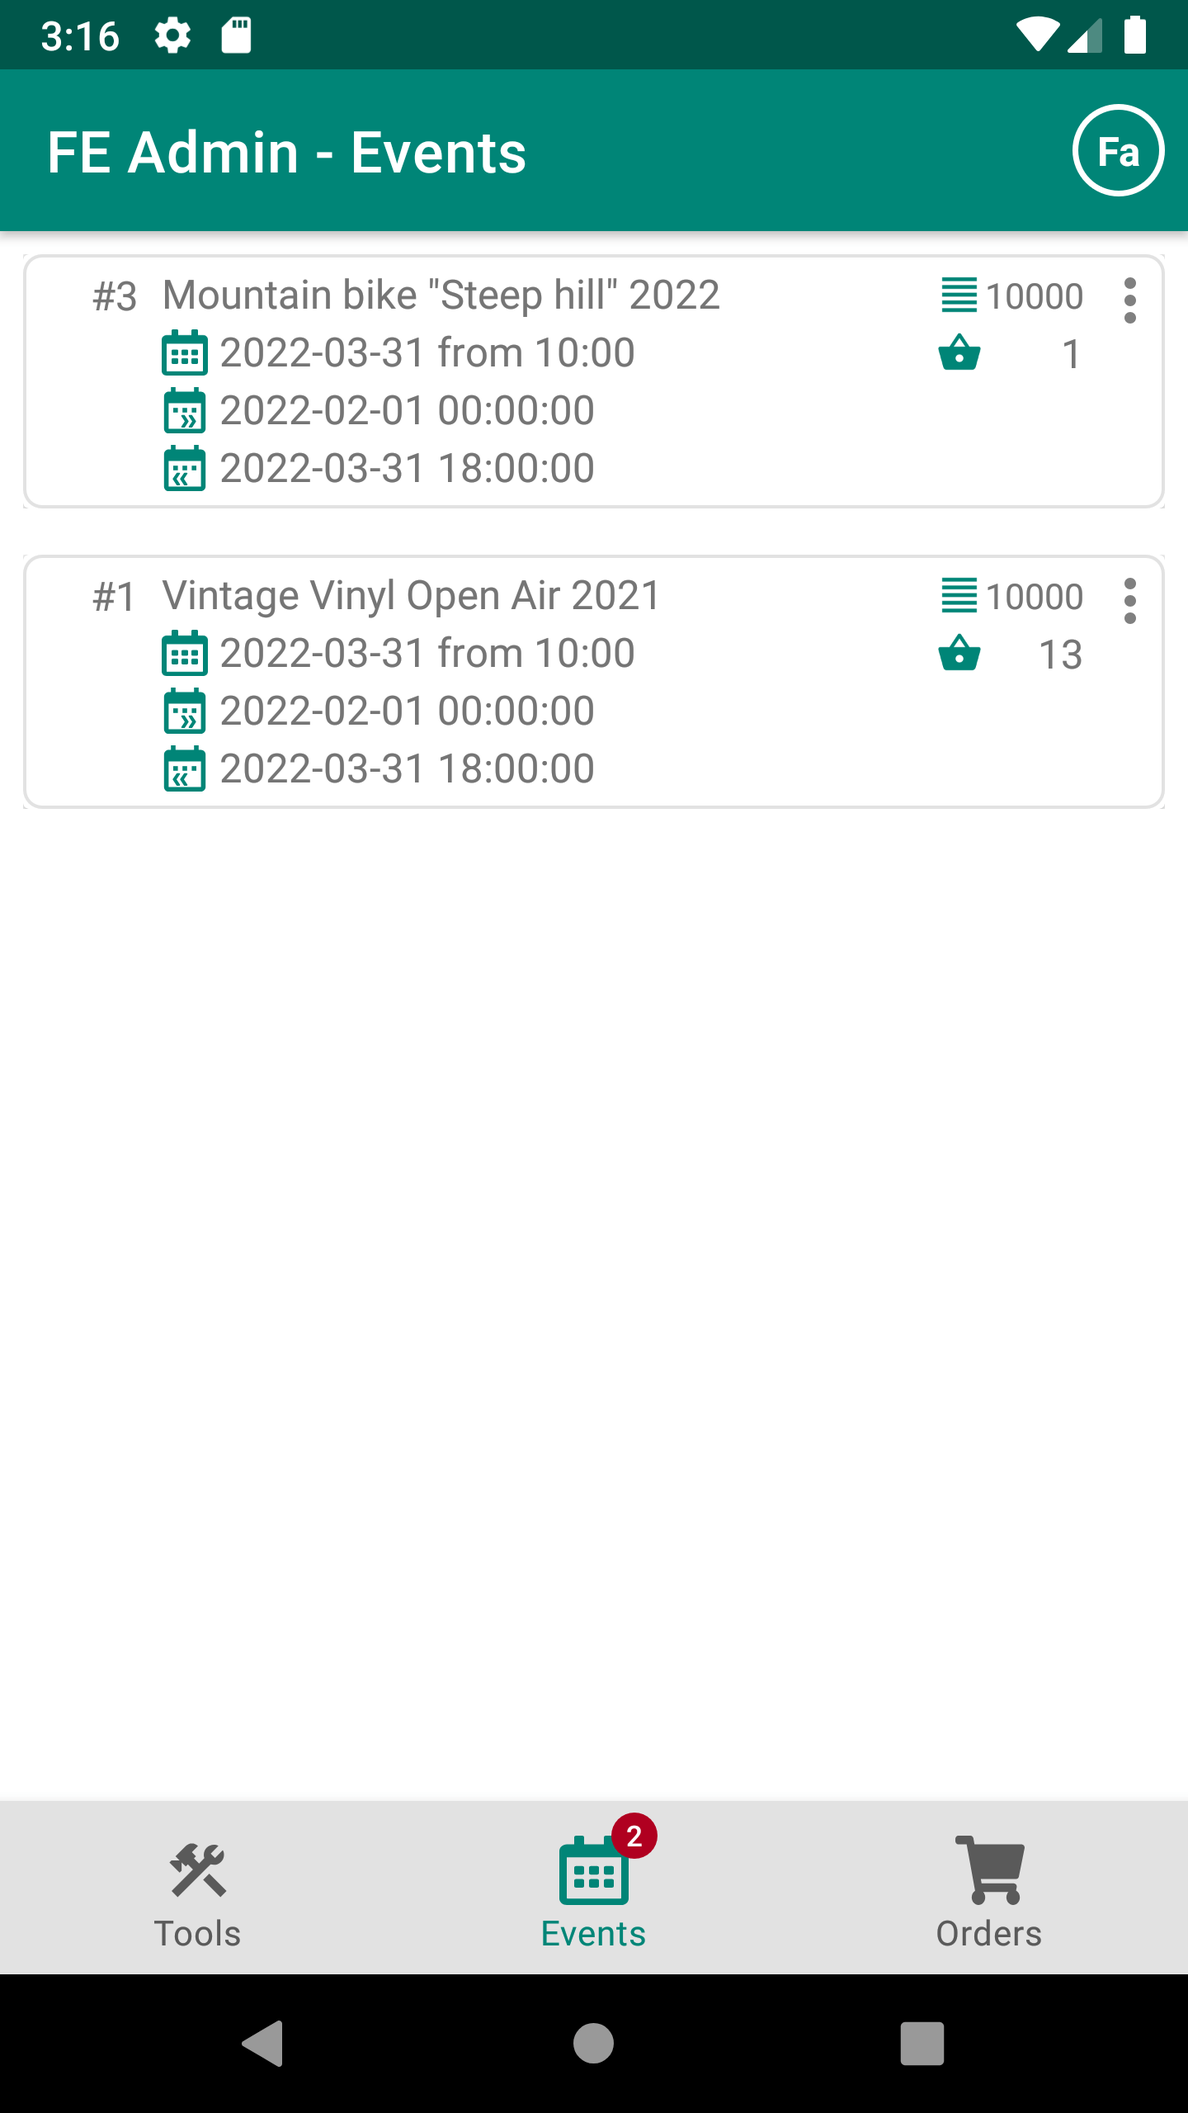
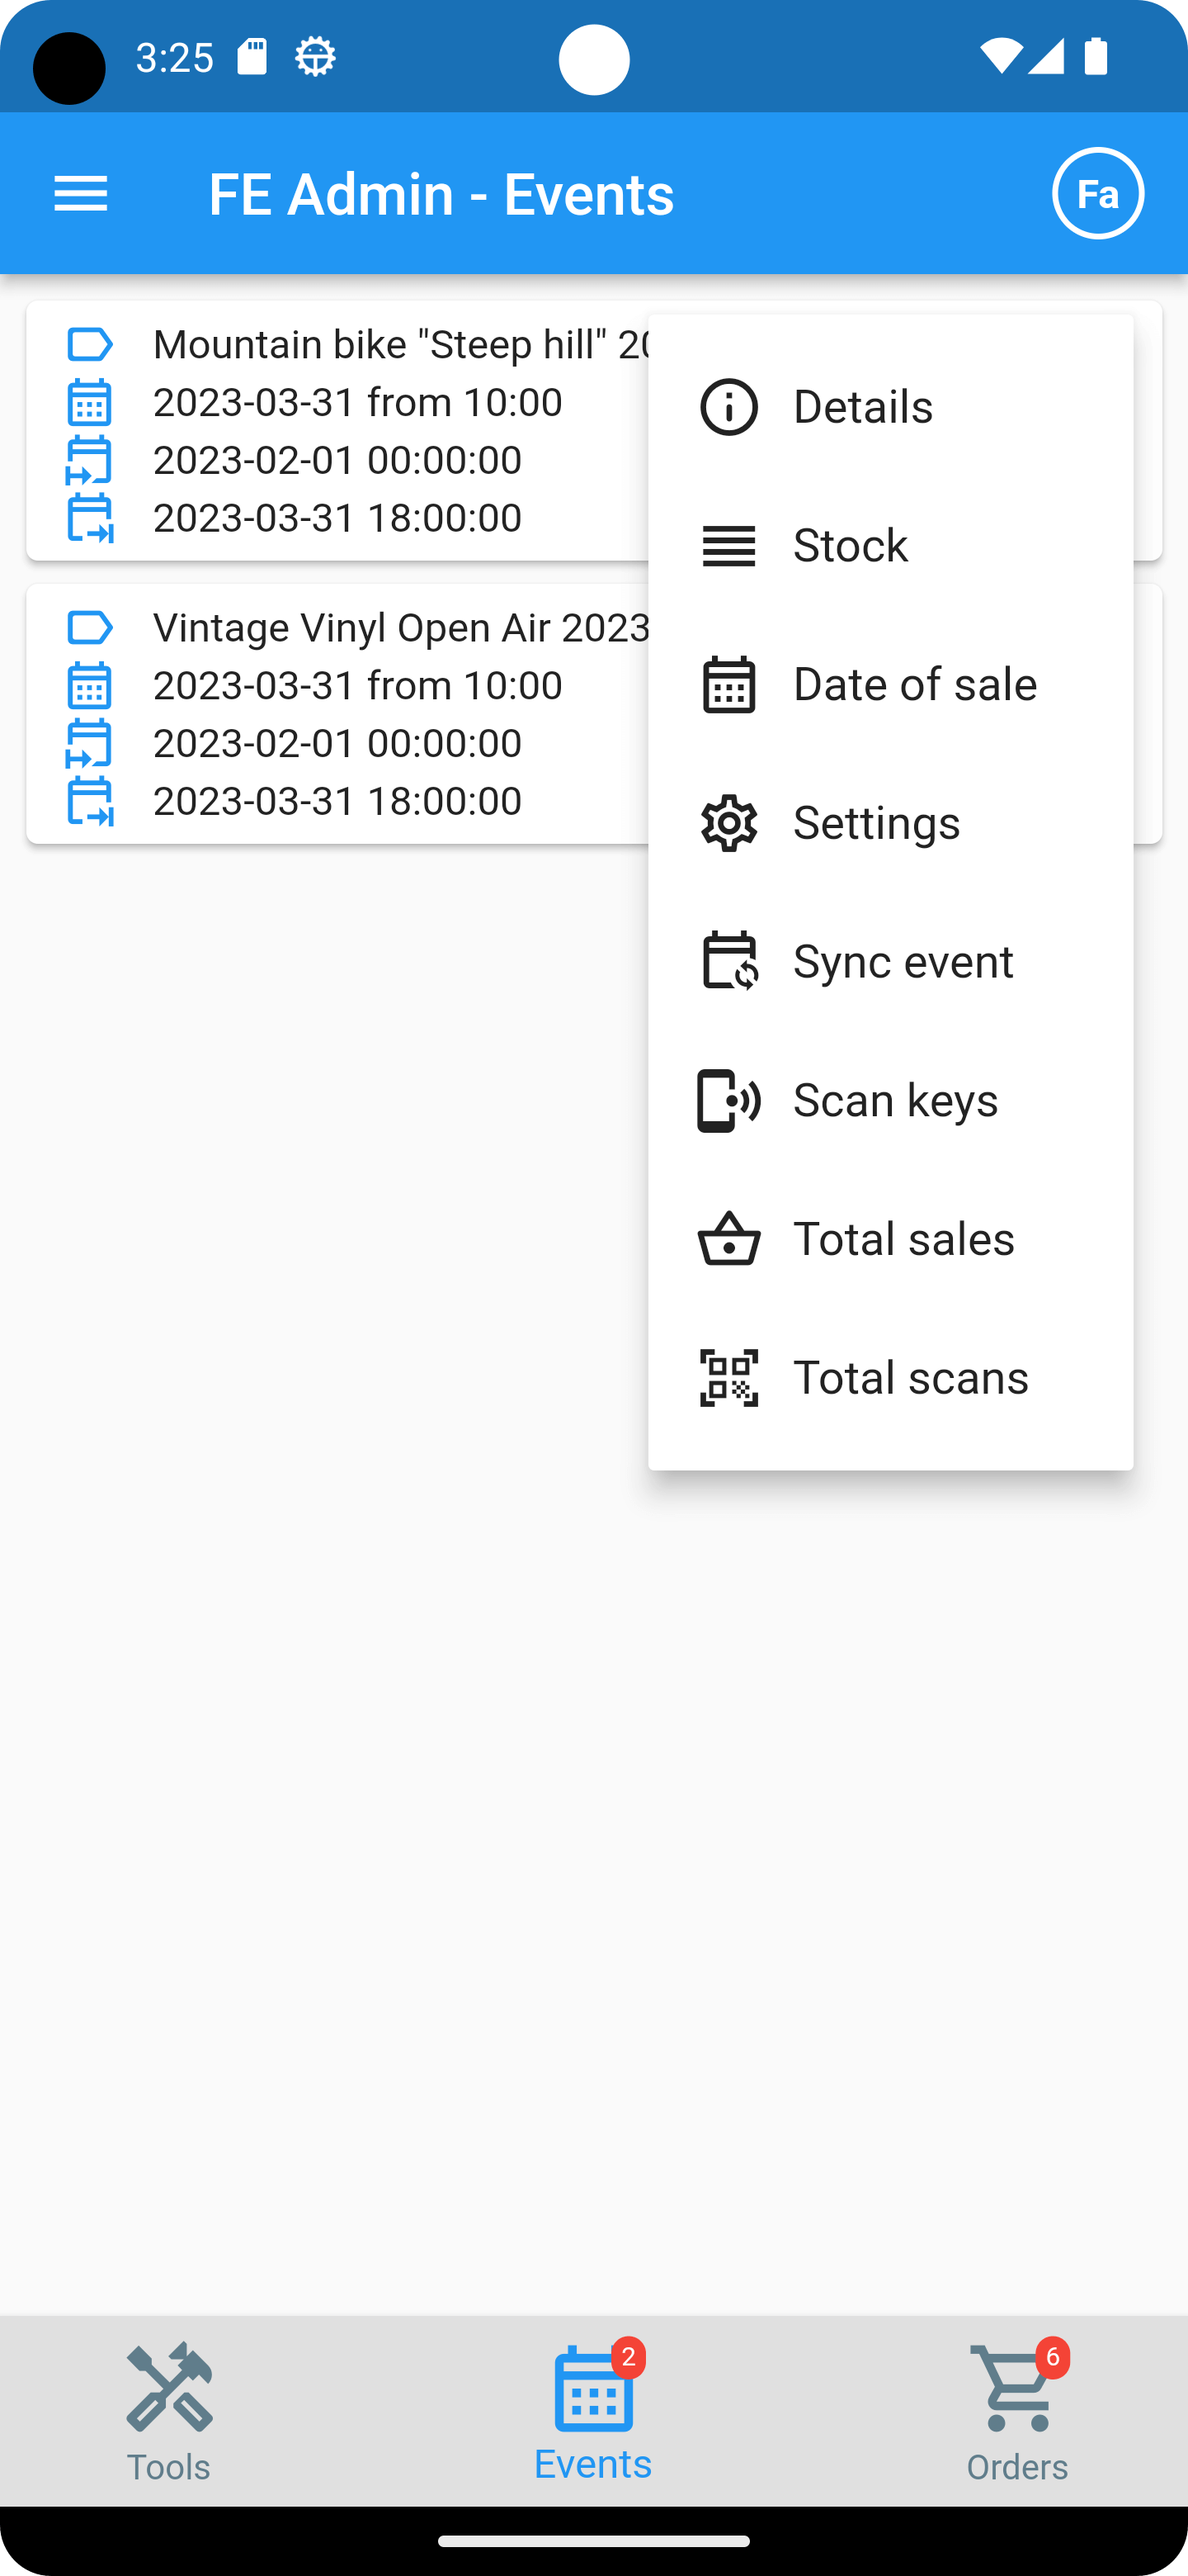
Ready for FE Admin 2.0

Changed region(s): [[0.0, 0.0, 1.0, 0.5938], [0.0, 0.8438, 1.0, 1.0], [0.6875, 0.4688, 0.8438, 0.5]]

diff --git a/docs/apps/admin.rst b/docs/apps/admin.rst
@@ -1,54 +1,50 @@
 FE Admin App
 ============
-With the FE Admin app, you can quickly view details of events and orders on your mobile phone and change settings if you are authorised to do so.
-It is also possible to resend orders by email, or to refund an order amount, delete and re-create tickets for an order or even create new orders.
-
-FE Admin can also support you to help configure users’ :doc:`FE Scanner App <scan>` or :doc:`FE Payment App <payment>`.
-
-You can also quickly view the number of tickets sold or the number of tickets scanned at different locations.
-You can also change the stock and the window for ticket sales.
+With the FE Admin app, you can quickly view details of events and orders on your mobile phone and change various
+components of events and/or orders, if you are authorised to do so.
 
 Full list of capabilities
 -------------------------
-Depending on the permissions configuration, users can only see the components they are allowed to see. The full list of components is shown below.
+Depending on the permissions configuration on the webserver hosting the Fast Events WordPress plugin,
+users will only see the components they are allowed to see. The full list of components is shown below.
 Permissions can be configured in `Authorization Settings <../getting-started/settings.html#authorization-settings>`_
+
+Below is a list of menu options. The permission required for each item is shown after it.
 
 Events
 ^^^^^^
-#. Detailed overview.
-#. Change event and ticket inventory.
-#. Change dates.
-#. Change various setting flags.
-#. Synchronise parts of an event with another event.
-#. Show scan information and configuration QR code for the :doc:`FE Scanner App <scan>`.
-#. Detailed information about tickets sold.
-#. Detailed information on scanning tickets in progress.
+#. Detailed overview (:guilabel:`event_read`).
+#. Change event stock (:guilabel:`event_update`).
+#. Change event dates (:guilabel:`event_update`).
+#. Change various setting flags (:guilabel:`event_update`).
+#. Synchronise parts of an event with another event (:guilabel:`event_sync`).
+#. Show scan information and configuration QR code for the :doc:`FE Scanner App <scan>` (:guilabel:`scan_app_read`).
+#. Detailed information about tickets sold (:guilabel:`total_sales`).
+#. Detailed information on scanning tickets in progress (:guilabel:`total_scans`).
 
 Orders
 ^^^^^^
-#. Detailed overview of the order.
-#. Search across all orders.
-#. Email the order.
-#. Change the name and email address of the order.
-#. Share tickets using Android Sharing.
-#. Remove tickets.
-#. Create tickets.
-#. Remove an order.
-#. Refund and order.
-#. Add new orders.
+#. Detailed overview of the order (:guilabel:`order_read` and :guilabel:`scan_app_read`).
+#. Email the order (:guilabel:`order_email`).
+#. Change the name and email address of the order (:guilabel:`order_update`).
+#. Share tickets using Android Sharing (:guilabel:`order_read`).
+#. Delete an order (:guilabel:`order_delete`).
+#. Delete tickets (:guilabel:`tickets_delete`).
+#. Create tickets (:guilabel:`tickets_create`).
+#. Refund and order (:guilabel:`order_refund`).
+#. Add new orders (:guilabel:`order_add`).
 
 Tools
 ^^^^^
-#. Sales dashboard.
-#. Export orders to Excel format.
-#. Export tickets to Excel format.
-#. Scan a ticket to see its details. This is an informational scan only.
-#. Add, modify and delete input fields.
-#. Add, modify and delete ticket types.
-#. Upload new ticket PDF template.
-#. Configure the :doc:`FE Payment App <payment>`.
+#. Scan a ticket to see its details. This is an informational scan only (:guilabel:`tickets_read`).
+#. Show, add, modify and delete input fields (:guilabel:`input_fields_read` and :guilabel:`input_fields_change` for add, modify or delete).
+#. Show, add, modify and delete ticket types (:guilabel:`ticket_types_read` and :guilabel:`ticket_types_change` for add, modify or delete).
+#. Show, add, modify and delete scan keys (:guilabel:`scan_app_read` and :guilabel:`scan_app_change` for add, modify or delete).
+#. Sales dashboard (:guilabel:`total_sales`).
+#. Export orders to Excel format (:guilabel:`order_export`).
+#. Export tickets to Excel format (:guilabel:`tickets_export`).
 
-The App is available for Android 8.0 and above. The IOS version is currently not available.
+The App is available for Android 9.0 and above and IOS 13 and above.
 
 .. image:: ../_static/images/apps/Admin-Android.png
    :target: https://play.google.com/store/apps/details?id=nl.fe_data.admin
@@ -94,31 +90,31 @@ authorized access to its payment information, a ``Connect with Mollie`` screen w
 
 The way the App works is pretty straightforward. You can use the buttons at the bottom to switch between ``Orders``, ``Events`` and ``Tools``.
 In the orders and events tab you can swipe down to refresh the content.
-The ``three dots`` on the right of a an event or order can be pressed to display a context menu. See example screenshot.
+The ``three dots`` on the right of a an event or order can be pressed to display a context menu. See example screenshots.
 
 In the orders tab you to quickly search for an order. Just start typing and the result will be displayed.
 Searches are performed on all fields except the number of tickets and amount.
 
 .. list-table::
 
-    * - .. image:: ../_static/images/apps/Admin-login.png
-           :target: ../_static/images/apps/Admin-login.png
+    * - .. image:: ../_static/images/apps/Admin-accounts.png
+           :target: ../_static/images/apps/Admin-accounts.png
            :alt: FE Admin login
+      - .. image:: ../_static/images/apps/Admin-edit-account.png
+           :target: ../_static/images/apps/Admin-edit-account.png
+           :alt: Edit account
       - .. image:: ../_static/images/apps/Admin-events.png
            :target: ../_static/images/apps/Admin-events.png
-           :alt: Events overview
-      - .. image:: ../_static/images/apps/Admin-add-order.png
-           :target: ../_static/images/apps/Admin-add-order.png
-           :alt: Add a new order
+           :alt: Events
 
 .. list-table::
 
-    * - .. image:: ../_static/images/apps/Admin-order-details.png
-           :target: ../_static/images/apps/Admin-order-details.png
-           :alt: Show order details
-      - .. image:: ../_static/images/apps/Admin-scan-keys.png
-           :target: ../_static/images/apps/Admin-scan-keys.png
-           :alt: Overview scan keys
+    * - .. image:: ../_static/images/apps/Admin-orders.png
+           :target: ../_static/images/apps/Admin-orders.png
+           :alt: Orders
+      - .. image:: ../_static/images/apps/Admin-order-detail.png
+           :target: ../_static/images/apps/Admin-order-detail.png
+           :alt: Order details
       - .. image:: ../_static/images/apps/Admin-tools.png
            :target: ../_static/images/apps/Admin-tools.png
            :alt: Tools

diff --git a/docs/getting-started/changelog.rst b/docs/getting-started/changelog.rst
@@ -1,6 +1,37 @@
 Changelog
 =========
 
+v1.8.4 (1 Apr 2023)
+-------------------
+* Fix: Don't show online payment events in FE Admin.
+* Fix: Delete order after payment failure.
+
+v1.8.3 (28 Mar 2023)
+--------------------
+* Fix: Revoke authorization button in Saas mode is now always visible.
+* New: Preparations for FE Admin versie 2.0.
+
+v1.8.2 (19 Mar 2023)
+--------------------
+* Fix: Saas user id selection now without admin users an better error handling.
+* New: Ready for WordPress 6.2.
+
+v1.8.1 (10 Mar 2023)
+--------------------
+* Fix: Small bugfixes.
+
+v1.8.0 (18 Feb 2023)
+--------------------
+* Fix: Reset authorization scope for each line.
+* Fix: SaaS fee could not be null in public API.
+* Cleanup of tracking code and removed Firebase.
+* This release wil only work with FE Tracking 1.5.0 and above. Will be released next week.
+
+v1.7.1 (26 Jan 2023)
+--------------------
+* Fix: Optimised various queries.
+* Fix: Create new orders: COMMIT transaction before external call.
+
 v1.7.0 (19 Jan 2023)
 --------------------
 * New: Extended keywords for email body replacement tags.
